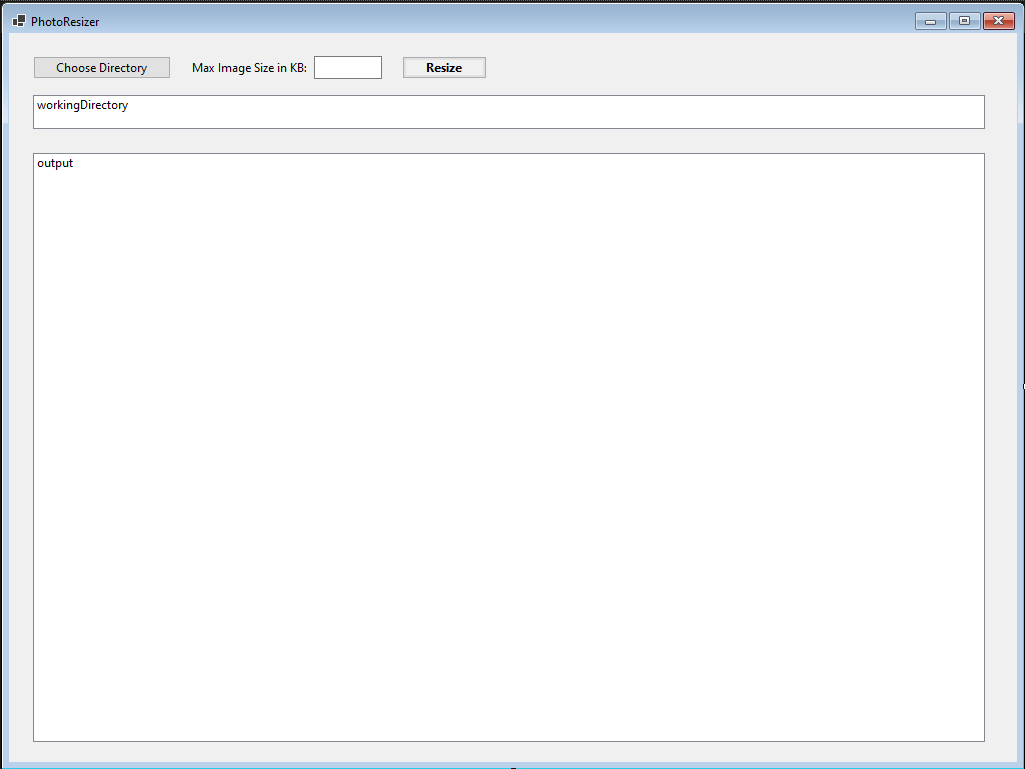
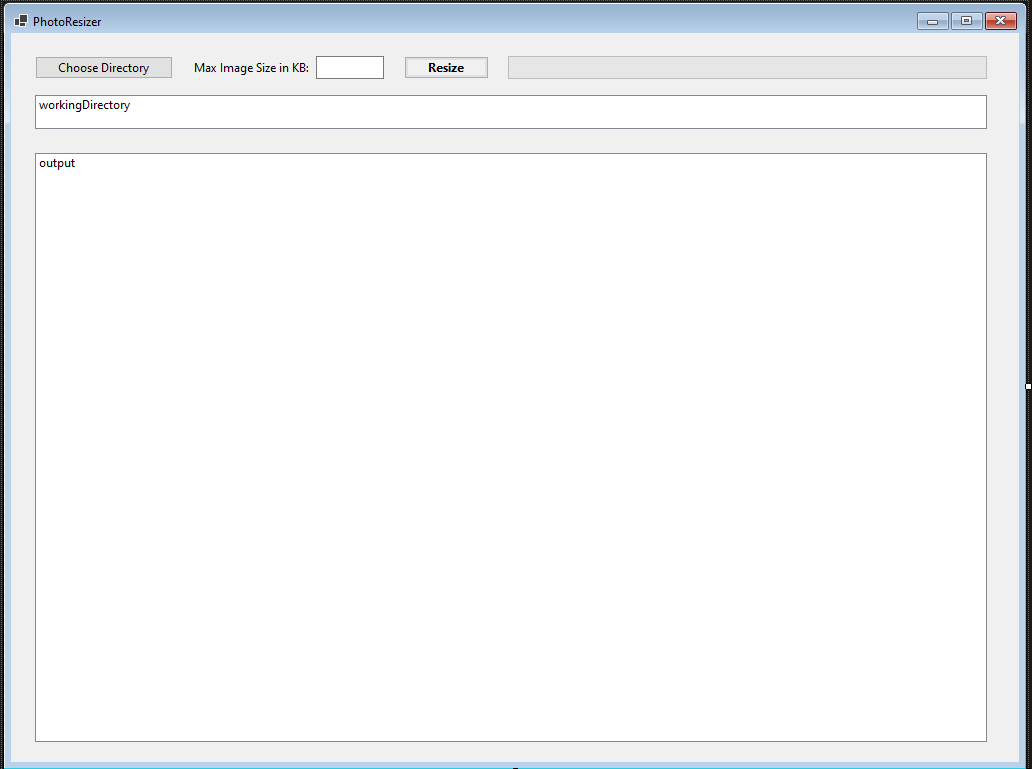
screenshot

diff --git a/Form1.Designer.cs b/Form1.Designer.cs
@@ -43,7 +43,7 @@ partial class Form1
         cancelButton = new Button();
         SuspendLayout();
         // 
-        // resize
+        // resizeButton
         // 
         resizeButton.BackColor = SystemColors.Control;
         resizeButton.Font = new Font("Segoe UI", 9F, FontStyle.Bold, GraphicsUnit.Point, 0);
@@ -108,9 +108,9 @@ partial class Form1
         // 
         // progressBar1
         // 
-        progressBar1.Location = new Point(519, 26);
+        progressBar1.Location = new Point(497, 23);
         progressBar1.Name = "progressBar1";
-        progressBar1.Size = new Size(342, 23);
+        progressBar1.Size = new Size(479, 23);
         progressBar1.TabIndex = 6;
         // 
         // cancelButton
@@ -128,7 +128,6 @@ partial class Form1
         AutoScaleDimensions = new SizeF(7F, 15F);
         AutoScaleMode = AutoScaleMode.Font;
         ClientSize = new Size(1008, 729);
-        //Controls.Add(cancelButton);
         Controls.Add(progressBar1);
         Controls.Add(label1);
         Controls.Add(maxImageSizeInKb);
